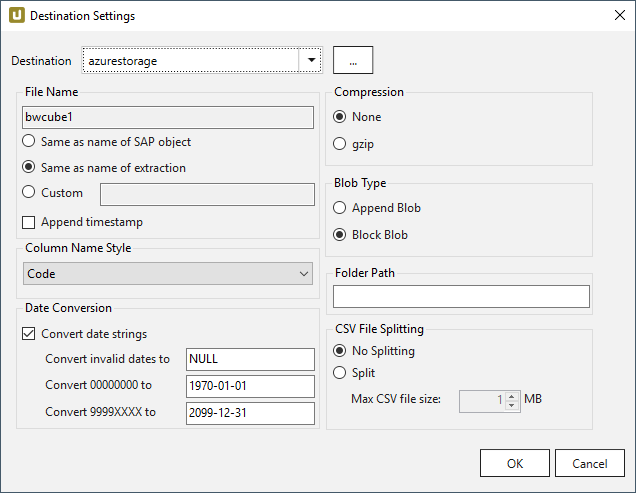
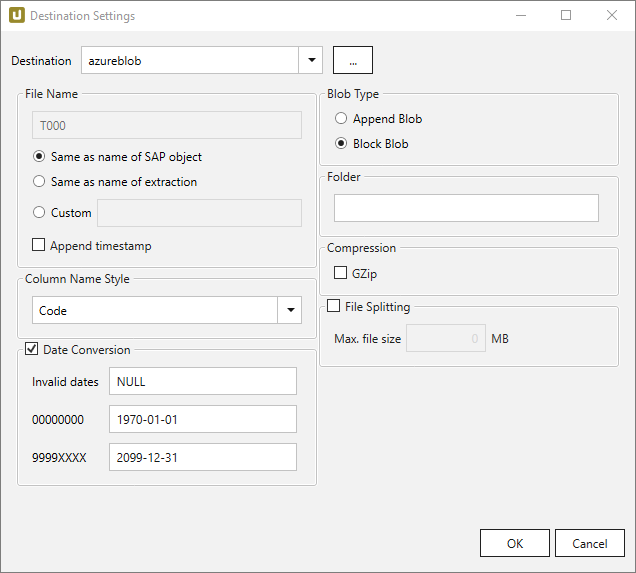
xu, file splitting s3 , azure de/en

diff --git a/content/_de/xtract-universal/xu-destinationen/azure-storage/blob-einstellungen.md b/content/_de/xtract-universal/xu-destinationen/azure-storage/blob-einstellungen.md
@@ -55,21 +55,18 @@ Wenn die Extraktionsdaten in einen Ordner innerhalb eines Azure-Blob-Containers 
 Unterordner werden ebenfalls unterstützt und können wie folgt eingegeben werden: `[ordner]/[unterordner_1]/[unterordner_2]/…`
 
 
-### CSV File Splitting
+### File Splitting
 
-**No Splitting**<br>
-Schreibt die Extraktionsdaten einer einzelnen Extraktion in eine einzelne Datei im Azure-Storage.
+**File Splitting**<br>
 
-**Split**<br>
 Schreibt die Extraktionsdaten einer einzelnen Extraktion in mehrere Dateien im Azure-Storage. 
 Dabei wird an jeden Dateinamen *_part[nnn]* angehägt. 
-Beim Verwenden von .csv-Dateien, bestimmt der Wert eingestellt in *Max. CSV file size* die Größe der Dateien. 
 
-**Max. CSV file size** <br>
-Maximalgröße der .csv-Datei gespeichert im Azure-Storage. 
+**Max. file size** <br>
+Der Wert eingestellt in *Max. file size* bestimmt die Maximalgröße der Datei gespeichert im Azure-Storage. 
 
 {: .box-note }
-**Note:** Die Option *Max. CSV file size* wird nicht von gzip-Dateien unterstützt.
+**Note:** Die Option *Max. file size* wird nicht von gzip-Dateien unterstützt.
 Die Größe von durch gzip-Verfahren komprimierten Dateien kann nicht im Voraus bestimmt werden.
 
 

diff --git a/content/_en/xtract-universal/xu-destinations/azure-storage/blob-settings.md b/content/_en/xtract-universal/xu-destinations/azure-storage/blob-settings.md
@@ -54,17 +54,16 @@ Subfolders are supported and can be defined using the following syntax:
 `[folder]/[subfolder_1]/[subfolder_2]/…`
 
 
-### CSV File Splitting
+### File Splitting
 
-**No Splitting**<br>
-Writes extraction data of a single extraction to a single file in Azure storage.
+**File Splitting**<br>
 
-**Split**<br>
-Writes extraction data of a single extraction to multiple files in Azure storage. Each filename is appended by *_part[nnn]*. In case of .csv files, the file size is determined by the value set in *Max. CSV file size*.
+Writes extraction data of a single extraction to multiple files in Azure storage. Each filename is appended by *_part[nnn]*. 
 
-**Max. CSV file size** <br>
-Maximum size of a .csv file stored in an Azure storage account. 
+**Max. file size** <br>
+The value set in *Max. file size* determines the maximum size of the file stored in Azure storage. 
+
 
 {: .box-note }
-**Note:** The option *Max. CSV file size* does not apply to gzip files. The size of a gzipped file cannot be determined in advance.
+**Note:** The option *Max. file size* does not apply to gzip files. The size of a gzipped file cannot be determined in advance.
 

diff --git a/content/_de/xtract-universal/xu-destinationen/amazon_aws_s3/einstellungen.md b/content/_de/xtract-universal/xu-destinationen/amazon_aws_s3/einstellungen.md
@@ -42,3 +42,17 @@ Die Daten werden unkomprimiert übertragen und auf S3 als csv-Datei abgelegt.
 
 **gzip**<br>
 Die Daten werden [komprimiert](http://www.gzip.org/) übertragen und auf S3 als .gz-Datei abgelegt.
+
+### File Splitting
+
+**File Splitting**<br>
+
+Schreibt die Extraktionsdaten einer einzelnen Extraktion in mehrere Dateien im Azure-Storage. 
+Dabei wird an jeden Dateinamen *_part[nnn]* angehägt. 
+
+**Max. file size** <br>
+Der Wert eingestellt in *Max. file size* bestimmt die Maximalgröße der Datei gespeichert im Azure-Storage. 
+
+{: .box-note }
+**Note:** Die Option *Max. file size* wird nicht von gzip-Dateien unterstützt.
+Die Größe von durch gzip-Verfahren komprimierten Dateien kann nicht im Voraus bestimmt werden.

diff --git a/content/_en/xtract-universal/xu-destinations/amazon-aws-s3/settings.md b/content/_en/xtract-universal/xu-destinations/amazon-aws-s3/settings.md
@@ -41,3 +41,16 @@ Data is being transferred uncompressed and stored as a .csv file on S3.
 
 **gzip**<br>
 Data is being transferred in a compressed format and stoard as a .gz file on S3.
+
+### File Splitting
+
+**File Splitting**<br>
+
+Writes extraction data of a single extraction to multiple files in Azure storage. Each filename is appended by *_part[nnn]*. 
+
+**Max. file size** <br>
+The value set in *Max. file size* determines the maximum size of the file stored in Azure storage. 
+
+
+{: .box-note }
+**Note:** The option *Max. file size* does not apply to gzip files. The size of a gzipped file cannot be determined in advance.
